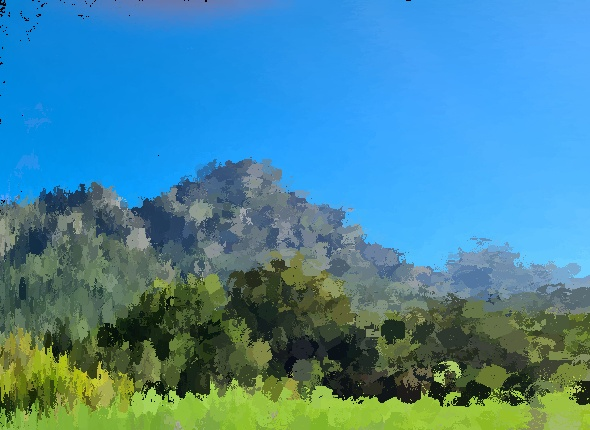
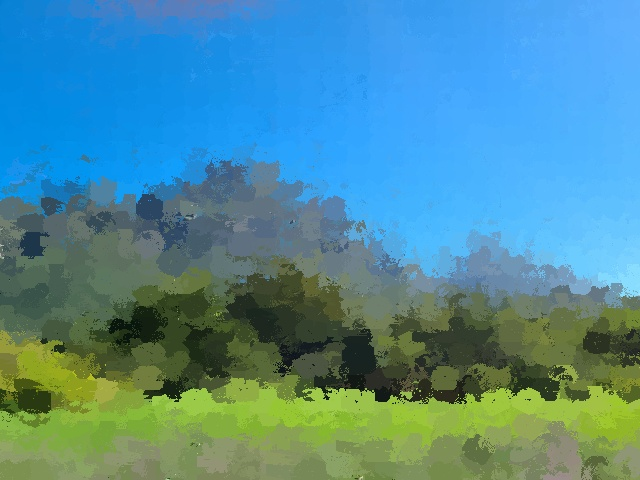
cells partial fixe

diff --git a/main.py b/main.py
@@ -13,6 +13,8 @@ from rich.progress import (
     TimeRemainingColumn,
 )
 
+import pixel_art as px
+
 LIVE = False
 
 bar = Progress(
@@ -31,10 +33,14 @@ def step(task):
 def iter(out, img, cells, task):
     global LIVE
     cells_c = cells.copy()
+    cont = 0
     while len(cells_c) != 0:
         x = random.choice(cells_c)
         color = imt.get_mean_color(img,x)
         out = imt.put_stroke(out, x, color)
+        #cv2.imshow("iter", out)
+        #cv2.waitKey(0)
+        cont += 1
 
         if LIVE:
             cv2.imshow("out", out)
@@ -42,6 +48,7 @@ def iter(out, img, cells, task):
 
         cells_c.remove(x)
         step(task)
+    print("cont: {}".format(cont))
     return out
 
 
@@ -63,7 +70,6 @@ def crop(im, px, w, h):
 
 
 def main(image, outname="out.jpg" ,iterations=5, live = False):
-    
     global LIVE
     LIVE = live
     if live:
@@ -73,7 +79,7 @@ def main(image, outname="out.jpg" ,iterations=5, live = False):
     if iterations < 2:
         print("Setting iterations = 2")
         iterations = 2
-    if iterations == 2:
+    '''if iterations == 2:
         count = 85
     if iterations == 3:
         count = 277
@@ -84,49 +90,85 @@ def main(image, outname="out.jpg" ,iterations=5, live = False):
     if iterations == 6:
         count = 21844
     if iterations == 7:
-        count = 87360
+        count = 87360'''
+    
+
     if iterations > 7:
         iterations = 7
-        count = 87360
         print("Iterations can't be > 7")
     
+    count = pow(4, iterations+1) #+ 4
+
+    
     with bar as progress:
+        start = time.time()
         task = progress.add_task("[bold green]Processing...", total=count)
         img = imt.readimg(image)
-        img = imt.imborder(img, 50)
+        img = imt.imborder(img, 100)
+        #cv2.imshow("image", img)
+        #cv2.waitKey(0)
         
         height, width, _ = img.shape
         cells = []
 
         height -= 100
         width -= 100
-        x1 = int(height/2) + 50
-        y1 = int(width/2) + 50
+        x1 = int(height/2) + 100
+        y1 = int(width/2) + 100
 
-        cells.append([50,x1,50,y1])
-        cells.append([50, x1, y1, width-1])
-        cells.append([x1, height-1, 50,y1])
+        cells.append([100,x1,100,y1])
+        cells.append([100, x1, y1, width-1])
+        cells.append([x1, height-1, 100,y1])
         cells.append([x1, height-1, y1, width-1])
 
-        out = np.zeros_like(img, np.uint8)
-        color = imt.get_mean_color(img,[0,height-1,0,width-1])
-        out = imt.put_stroke(out, [0,height-1,0,width-1], color)
+        if LIVE:
+            out = np.zeros_like(img, np.uint8)
+        else:
+            out = img
+        #print(cells)
+        #color = imt.get_mean_color(img,[0,height-1,0,width-1])
+        #out = imt.put_stroke(out, [0,height-1,0,width-1], color)
 
-        out = iter(out, img, cells, task)
+        #out = iter(out, img, cells, task)
 
-        for x in range(iterations):
-            ncells = get_new_cells(cells)
-            cells = ncells
-            out=iter(out,img, cells, task)
-            ncells = []
+        if LIVE:
+            for x in range(iterations):
+                ncells = get_new_cells(cells)
+                cells = ncells
+                out = iter(out,img, cells, task)
+                ncells = []
+        else:
+            for x in range(iterations):
+                ncells = get_new_cells(cells)
+                cells = ncells
+                if (iterations < 6):
+                    if (x<4):
+                        out = iter(out,img, cells, task)
+                if (x == iterations-1):
+                    out = iter(out,img, cells, task)
+                ncells = []
             
-        out = crop(out, 50, width-50, height-50)    
-        cv2.imshow("test", out)
-        cv2.waitKey(0)
+        out = crop(out, 100, width-100, height-100)    
+        #cv2.imshow("test", out)
+        #cv2.waitKey(0)
 
         cv2.imwrite(outname, out)
+        end = time.time()
+        print(f"Total time: {end - start}")
 
 
 
 if __name__ == "__main__":
-    main("input/im2.jpg", "output/out2.jpg", iterations=6, live=False)
+    #main("input/im1.jpg", "output/out1.jpg", iterations=6, live=False)
+    #main("input/im2.jpg", "output/out2.jpg", iterations=4, live=False)
+    #main("input/im3.jpg", "output/out3.jpg", iterations=6, live=False)
+    #main("input/im4.jpg", "output/out4.jpg", iterations=6, live=False)
+    #main("input/im5.jpg", "output/out5.jpg", iterations=6, live=False)
+    #main("input/im6.jpg", "output/out6.jpg", iterations=6, live=False)
+    #main("input/im7.jpg", "output/out7.jpg", iterations=6, live=False)
+    #main("input/im8.jpg", "output/out8.jpg", iterations=6, live=False)
+    #main("input/im9.jpg", "output/out9.jpg", iterations=6, live=False)
+    main("input/im12.jpg", "output/out12.jpg", iterations=6, live=False)
+    #main("input/time1.jpg", "output/time1out.jpg", iterations=6, live=False)
+    #main("input/time2.png", "output/time2out.jpg", iterations=5, live=False)
+    #px.run("input/im11.jpg", "output/px11.jpg", 32)

diff --git a/imgtools.py b/imgtools.py
@@ -31,16 +31,17 @@ def get_mean_color(img, cell):
     b = int(b/((cell[1]-cell[0])*(cell[3]-cell[2])))
     return (r,g,b)
 
-def put_stroke(img, position, color):
-    xs = position[0]
-    xf = position[1]
-    ys = position[2]
-    yf = position[3]
+def put_stroke(img, position_ori, color):
+    xs = position_ori[0] - int((position_ori[0]/100)*2)
+    xf = position_ori[1] + int((position_ori[0]/100)*2)
+    ys = position_ori[2] - int((position_ori[0]/100)*2)
+    yf = position_ori[3] + int((position_ori[0]/100)*2)
+    #print(f"position: ({xs}:{xf}, {ys}:{yf})")
 
-    percent1 = 3
-    percent2 = 5
+    #percent1 = 5
+    #percent2 = 5
     
-    if position[0] - int((position[0]/100)*percent1) > 0:
+    '''if position[0] - int((position[0]/100)*percent1) > 0:
         xs = position[0] - int((position[0]/100)*percent1)
     else:
         if position[0] - int((position[0]/100)*percent2) > 0:
@@ -63,8 +64,8 @@ def put_stroke(img, position, color):
     else:
         if position[3] + int((position[3]/100)*percent2) < img.shape[1]:
             yf = position[3] + int((position[3]/100)*percent2)
-
-
+'''
+    position = []
     position = [xs, xf, ys, yf]
     x = (position[1]-position[0])
     y = (position[3]-position[2])
@@ -108,12 +109,14 @@ def get_4cell(cell):
         [sx+int(x/2), fx, sy, sy+int(y/2)],
         [sx+int(x/2), fx, sy+int(y/2), fy],
     ]
+    
+    #print(cells[0])
     return cells
 
 
 def get_random_brush():
     brushes = [ "brushes/brush2.png", "brushes/brush3.png", "brushes/brush4.png", "brushes/brush6.png", "brushes/brush7.png"]
-    #brushes = ["brushes/brush4.png", "brushes/brush6.png", "brushes/brush7.png"]
+    #brushes = ["brushes/brush4.png", "brushes/brush6.png", "brushes/brush7.png", "brushes/brush3.png", "brushes/brush4.png",]
     #brushes = ["brushes/brush2.png"]
     return random.choice(brushes)
     

diff --git a/pixel_art.py b/pixel_art.py
@@ -1,0 +1,67 @@
+from collections import defaultdict
+from scipy import stats
+import numpy as np
+import cv2
+
+
+def get_mean_color(x, y, img, px1, px2):
+    r = 0
+    g = 0
+    b = 0
+    for i in range(px1):
+        for j in range(px2):
+            r += img[x:x+px1, y:y+px2][i][j][0]
+            g += img[x:x+px1, y:y+px2][i][j][1]
+            b += img[x:x+px1, y:y+px2][i][j][2]
+    if px2 == 0:
+        px2 = 1
+    r = int(r/(px1*px2))
+    g = int(g/(px1*px2))
+    b = int(b/(px1*px2))
+    return (r,g,b)
+
+
+def pixelize_color(image, px=32):
+    try:
+        img = cv2.imread(image)
+    except:
+        img = image
+    #xborder = int(img.shape[0]%px)
+    #yborder = int(img.shape[1]%px)
+    yb = image.shape[0] - (int(image.shape[0]/px)*px)
+    xb = image.shape[1] - (int(image.shape[1]/px)*px)
+    print(xb)
+    print(yb)
+    y = 0 
+    while y < img.shape[1]:
+        x = 0
+        while x < img.shape[0]:
+            try:
+                img[x:x+px, y:y+px] = get_mean_color(x, y, img, px, px)
+                #cv2.imshow("test", img)
+                #cv2.waitKey(0)
+            except:
+                try:
+                    img[x:x+yb, y:y+px] = get_mean_color(x, y, img, yb, px)
+                except:
+                    try:
+                        img[x:x+px, y:y+xb] = get_mean_color(x, y, img, px, xb)
+                    except:
+                        try:
+                            img[x:x+yb, y:y+xb] = get_mean_color(x, y, img, yb, xb)
+                        except:
+                            pass
+            x += px
+        y += px
+
+    return img
+
+    
+
+def run(img, out, pixels):
+    #img = "donut.jpg"
+    image = cv2.imread(img)
+    pxc = pixelize_color(image, pixels)
+    cv2.imwrite(out, pxc)
+    print("Pixel Art filter completed")
+    

diff --git a/README.md b/README.md
@@ -20,5 +20,5 @@ main("input/im1.jpg", "output/out1.jpg", iterations=6, live=False)
 | Original | Processed |
 |----------|-----------|
 |  ![](input/im1.jpg)   |  ![](output/out1.jpg)    |
-|  ![](input/im2.jpg)   |  ![](output/out2.jpg)    |
-|  ![](input/im3.jpg)   |  ![](output/out3.jpg)    |   
+|  ![](input/time1.jpg)   |  ![](output/time1out.jpg)    |
+|  ![](input/im12.jpg)   |  ![](output/out12.jpg)    |   
